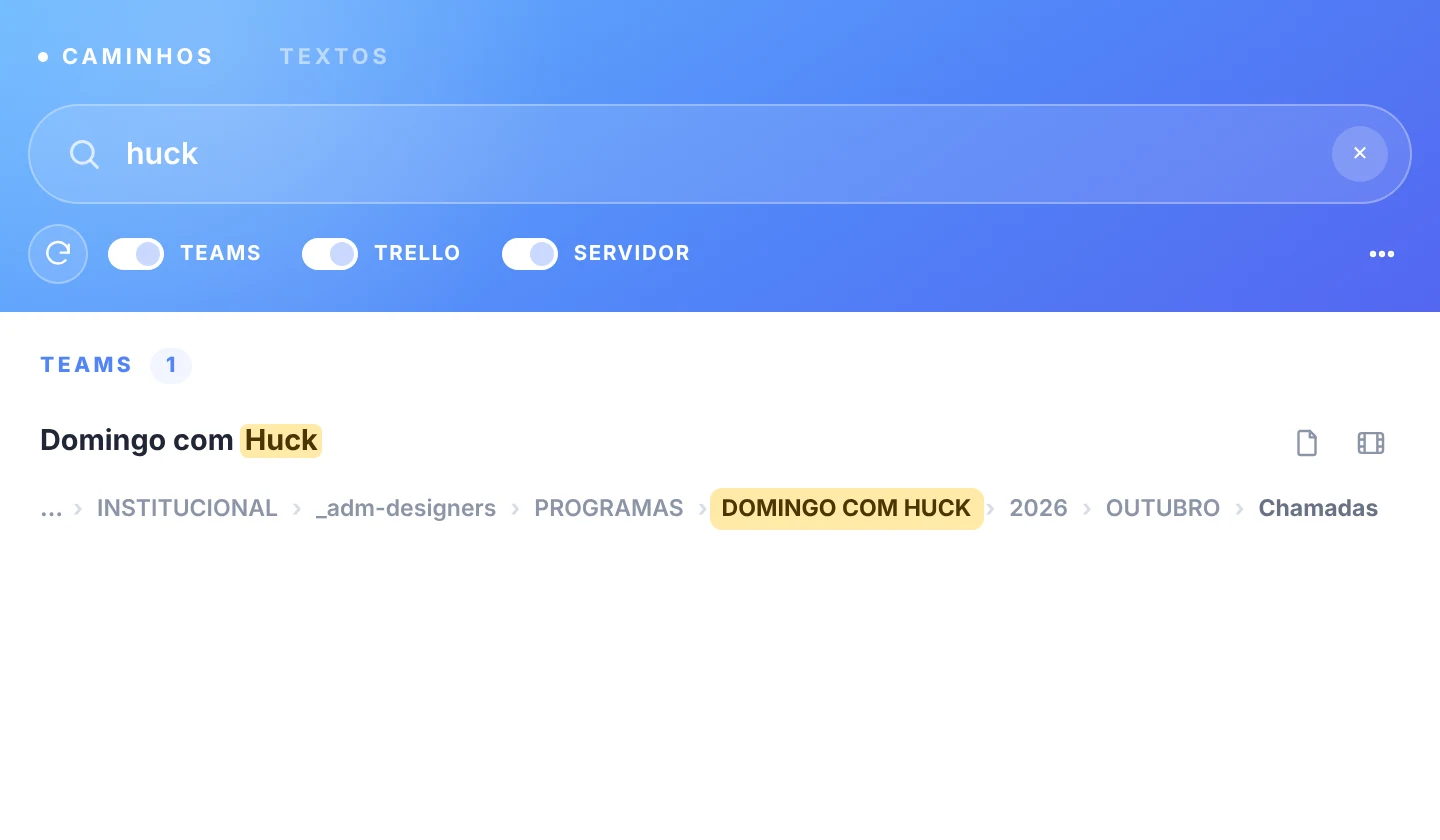
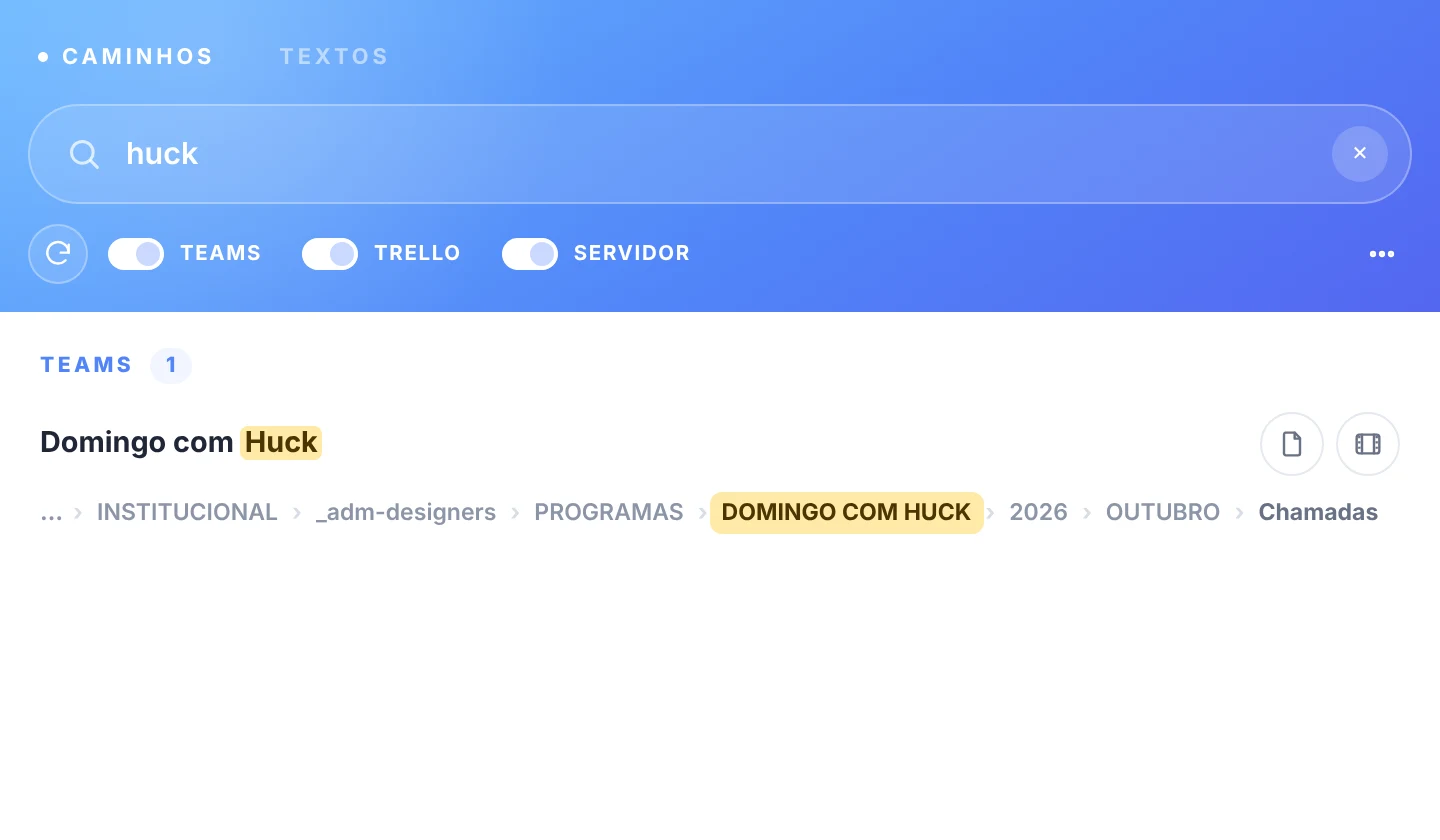
Acessorista: ícones de projeto/output redondos e animados
Mesmo estilo do lápis de editar a config dos templates (botão redondo
claro). No hover o arquivo inclina e a película avança um quadro; ao sair,
voltam.

Claude-Session: https://claude.ai/code/session_01DrYHfUyMEmqYvcFyKefNe2

diff --git a/extension/client/css/finder.css b/extension/client/css/finder.css
@@ -304,39 +304,36 @@ body.finder-page {
 .result-icons {
   display: flex;
   flex: 0 0 auto;
-  gap: 2px;
-}
-
-.card-icon {
-  display: grid;
-  width: 30px;
-  height: 30px;
-  place-items: center;
-  border: 0;
-  border-radius: 50%;
-  background: transparent;
-  color: var(--text-tertiary);
-  cursor: pointer;
-  transition:
-    background-color 180ms ease,
-    color 180ms ease,
-    transform 220ms var(--ease-soft);
+  gap: 6px;
 }
 
 .card-icon svg {
-  width: 17px;
-  height: 17px;
-  fill: none;
-  stroke: currentcolor;
-  stroke-linecap: round;
-  stroke-linejoin: round;
-  stroke-width: 1.7;
+  overflow: visible;
 }
 
-.card-icon:hover:not(:disabled) {
-  background: var(--blue-50);
-  color: var(--blue-500);
-  transform: translateY(-1px);
+.card-icon svg * {
+  transform-box: fill-box;
+}
+
+/* arquivo: inclina, como uma folha sendo puxada (volta ao sair) */
+.anim-file {
+  transform-origin: 50% 100%;
+  transition: transform 300ms var(--ease-soft);
+}
+
+.card-icon:hover .anim-file {
+  transform: rotate(-10deg) translateY(-1px);
+}
+
+/* película: as perfurações correm um quadro e param (voltam ao sair) */
+.anim-film .film-holes {
+  stroke-dasharray: 1.6 2.4;
+  stroke-linecap: butt;
+  transition: stroke-dashoffset 420ms var(--ease-soft);
+}
+
+.card-icon:hover .anim-film .film-holes {
+  stroke-dashoffset: -8;
 }
 
 .card-icon:focus-visible,

diff --git a/extension/client/js/finder.js b/extension/client/js/finder.js
@@ -309,14 +309,15 @@ caracteres e abertura das pastas. Aba TEXTOS: lê os textos dos layers de texto 
 		}
 	}
 
+	// arquivo (projeto): inclina; película (output): avança um quadro
 	var CARD_ICONS = {
-		projeto: '<path d="M7 3.5h7l4 4V19a1.5 1.5 0 0 1-1.5 1.5h-9A1.5 1.5 0 0 1 6 19V5a1.5 1.5 0 0 1 1-1.500z" /><path d="M14 3.5V8h4" />',
-		output: '<rect x="3.5" y="5" width="17" height="14" rx="2" /><path d="M7.500 5v14M16.500 5v14M3.500 9.500h4M3.500 14.500h4M16.500 9.500h4M16.500 14.500h4" />'
+		projeto: '<g class="anim-file"><path d="M7 3.5h7l4 4V19a1.5 1.5 0 0 1-1.5 1.5h-9A1.5 1.5 0 0 1 6 19V5a1.5 1.5 0 0 1 1-1.500z" /><path d="M14 3.5V8h4" /></g>',
+		output: '<g class="anim-film"><rect x="3.5" y="5" width="17" height="14" rx="2" /><path d="M7.500 5v14M16.500 5v14" /><path class="film-holes" d="M5.500 6v12M18.500 6v12" /></g>'
 	};
 
 	// projeto e output: ícones à direita do nome da atração
 	function iconButton(parent, kind, label, path, group) {
-		var btn = el('button', 'card-icon');
+		var btn = el('button', 'icon-button is-light card-icon');
 
 		btn.type = 'button';
 		btn.title = label + ':\n' + toPlatform(path, state.paths.platform) + '\n\n' + (PAD_KEYS.mac ? 'Cmd' : 'Ctrl') + '+C copia o caminho';
